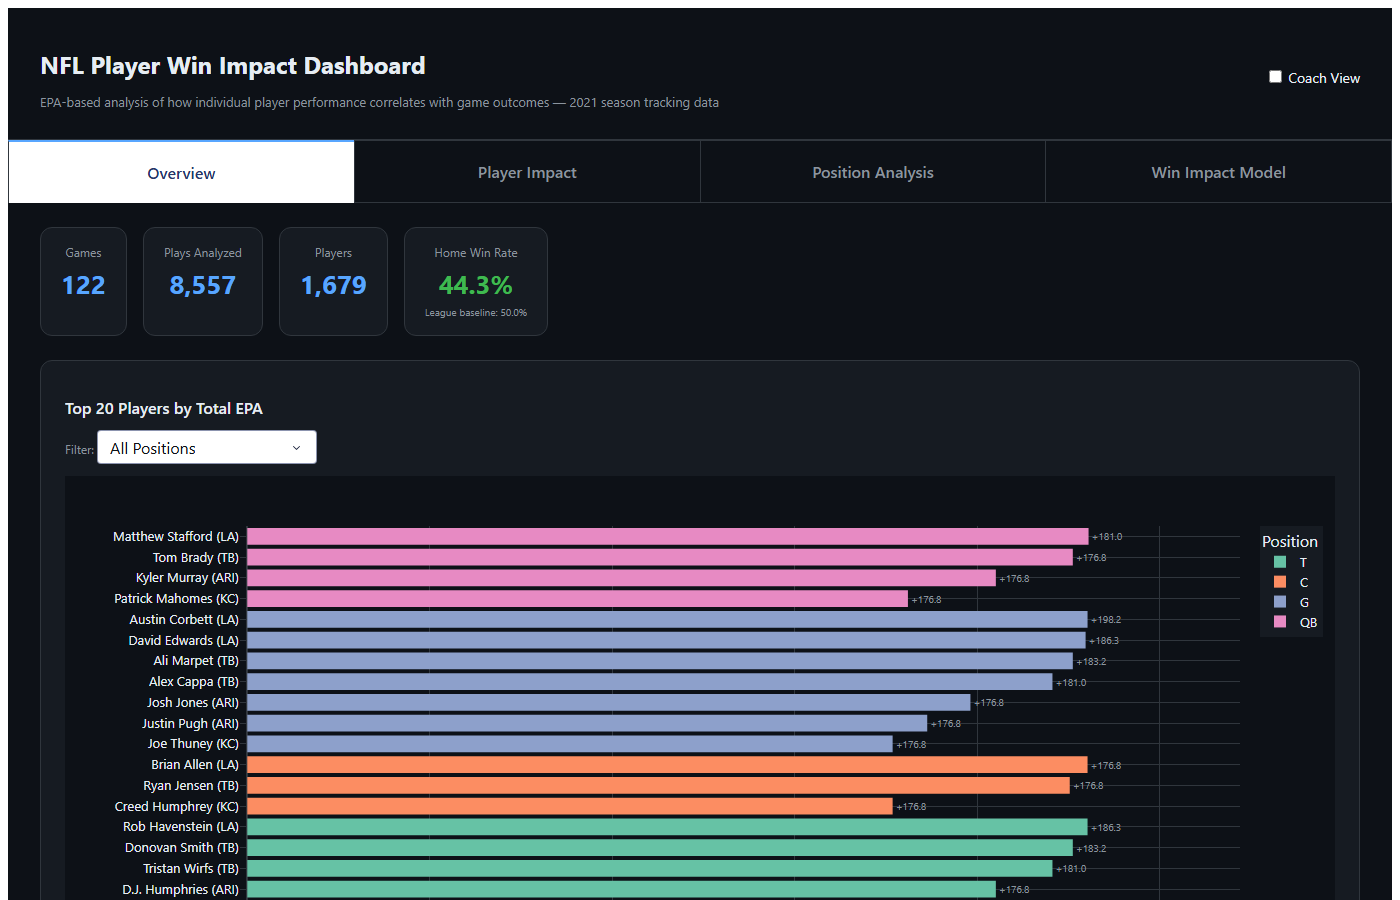
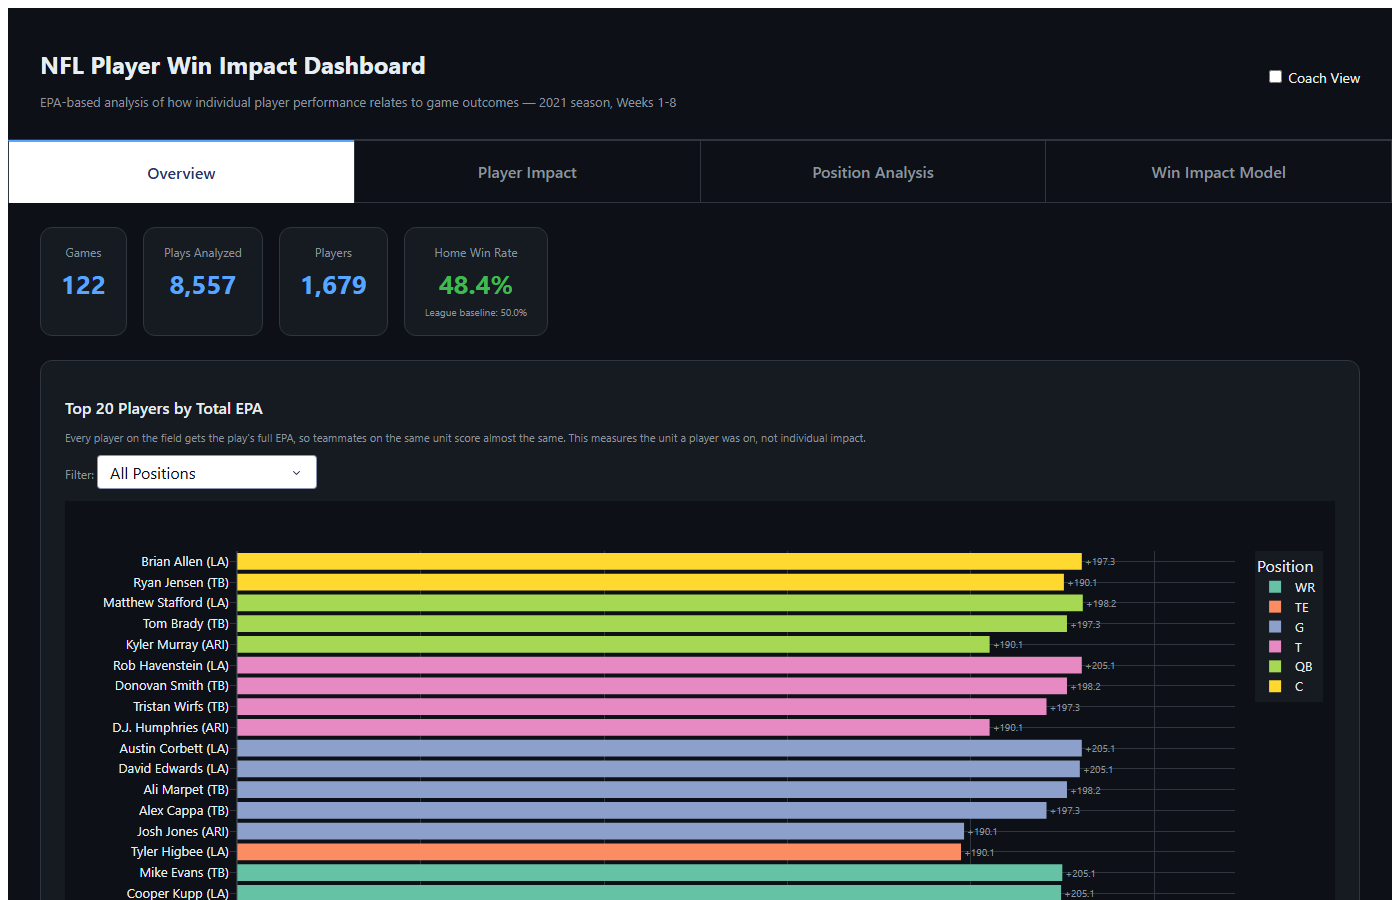
Fix receiver role bug, use real final scores, add held-out evaluation, correct README claims

Changed region(s): [[0.0307, 0.4667, 0.8907, 1.0], [0.8907, 0.5911, 0.9521, 0.7778], [0.2764, 0.0933, 0.5221, 0.1244]]

diff --git a/src/compute_epa.py b/src/compute_epa.py
@@ -24,6 +24,8 @@ import numpy as np
 import pandas as pd
 from sklearn.ensemble import GradientBoostingRegressor
 from sklearn.linear_model import LogisticRegression
+from sklearn.model_selection import GroupKFold
+from sklearn.pipeline import make_pipeline
 from sklearn.preprocessing import StandardScaler
 from sklearn.metrics import accuracy_score, roc_auc_score
 
@@ -120,32 +122,23 @@ def derive_final_scores(plays, games):
         plays.loc[idx, "homePts"] = hp
         plays.loc[idx, "visPts"] = vp
 
-    # Final score = last play's preSnapScore + points on last play
-    last_plays = plays[is_last].copy()
-    last_plays["finalHomeScore"] = last_plays["preSnapHomeScore"].fillna(0) + last_plays["homePts"]
-    last_plays["finalVisitorScore"] = last_plays["preSnapVisitorScore"].fillna(0) + last_plays["visPts"]
+    # Final scores and winners come from real results, NOT from plays.csv.
+    # plays.csv only holds pass plays (~70 per game), so runs, field goals and
+    # kneel-downs are missing and the score progression cannot be rebuilt.
+    # data/final_scores.csv holds the official 2021 regular-season scores
+    # (source: nflverse/nfldata games.csv, joined on week + home + away team).
+    real = pd.read_csv(os.path.join(DATA_DIR, "final_scores.csv"))
+    games = games.merge(real, on="gameId", how="left")
+    if games[["finalHomeScore", "finalVisitorScore"]].isna().any().any():
+        raise ValueError("final_scores.csv is missing scores for some games")
 
-    final_scores = last_plays[["gameId", "finalHomeScore", "finalVisitorScore"]].copy()
-
-    # Also use the max of (preSnapScore + lastPlayPts) and max preSnapScore as backup
-    max_scores = plays.groupby("gameId").agg(
-        maxHome=("preSnapHomeScore", "max"),
-        maxVis=("preSnapVisitorScore", "max"),
-    ).reset_index()
-    max_scores["maxHome"] = max_scores["maxHome"].fillna(0) + final_scores["finalHomeScore"].fillna(0).values * 0
-    # Use the higher of (last play score) and (max pre-snap score)
-    final_scores = final_scores.merge(max_scores, on="gameId", how="left")
-    final_scores["finalHomeScore"] = np.maximum(
-        final_scores["finalHomeScore"].fillna(0), final_scores["maxHome"].fillna(0))
-    final_scores["finalVisitorScore"] = np.maximum(
-        final_scores["finalVisitorScore"].fillna(0), final_scores["maxVis"].fillna(0))
-
-    # Merge back to games
-    games = games.merge(final_scores[["gameId", "finalHomeScore", "finalVisitorScore"]],
-                        on="gameId", how="left")
-    games["homeWin"] = (games["finalHomeScore"] > games["finalVisitorScore"]).astype(int)
     games["tie"] = (games["finalHomeScore"] == games["finalVisitorScore"]).astype(int)
-    games.loc[games["tie"] == 1, "homeWin"] = 0  # treat ties as non-wins for both
+    # homeWin: 1 = home won, 0 = visitor won, 0.5 = tie (counts as half a win for each team)
+    games["homeWin"] = np.select(
+        [games["finalHomeScore"] > games["finalVisitorScore"],
+         games["finalHomeScore"] < games["finalVisitorScore"]],
+        [1.0, 0.0], default=0.5,
+    )
 
     hw = (games["homeWin"] == 1).sum()
     aw = (games["homeWin"] == 0).sum()
@@ -303,8 +296,14 @@ def attribute_player_epa(plays, pff):
                 "playResult", "passResult", "down", "yardsToGo", "yardline"]
     player_plays = pff.merge(plays[epa_cols], on=["gameId", "playId"], how="left")
 
-    # Offensive roles get raw EPA; defensive roles get negated EPA
-    offensive_roles = {"Pass", "Run", "Pass Block", "Run Block"}
+    # Offensive roles get raw EPA; defensive roles (Pass Rush, Coverage) get
+    # negated EPA. Every play in plays.csv is a pass play, so the offensive
+    # roles are the passer, blockers and route runners.
+    offensive_roles = {"Pass", "Pass Block", "Pass Route"}
+    known_roles = offensive_roles | {"Pass Rush", "Coverage"}
+    unknown = set(player_plays["pff_role"].dropna().unique()) - known_roles
+    if unknown:
+        raise ValueError(f"Unmapped pff_role values: {unknown}")
     player_plays["isOffense"] = player_plays["pff_role"].isin(offensive_roles)
     player_plays["playerEpa"] = np.where(
         player_plays["isOffense"],
@@ -410,19 +409,28 @@ def win_impact_model(pg):
     df = pg.dropna(subset=features + ["teamWon"]).copy()
     df = df[df["snaps"] >= 10]
 
-    X = df[features].fillna(0)
-    y = df["teamWon"].astype(int)
+    X = df[features].fillna(0).to_numpy()
+    y = df["teamWon"].astype(int).to_numpy()
+    groups = df["gameId"].to_numpy()
 
+    # Held-out evaluation: 5-fold cross-validation grouped by game, so every
+    # player from a given game is either all in training or all in testing.
+    accs, aucs = [], []
+    for train_idx, test_idx in GroupKFold(n_splits=5).split(X, y, groups):
+        fold_model = make_pipeline(
+            StandardScaler(), LogisticRegression(max_iter=1000, random_state=42))
+        fold_model.fit(X[train_idx], y[train_idx])
+        fold_proba = fold_model.predict_proba(X[test_idx])[:, 1]
+        accs.append(accuracy_score(y[test_idx], fold_proba >= 0.5))
+        aucs.append(roc_auc_score(y[test_idx], fold_proba))
+    acc, auc = float(np.mean(accs)), float(np.mean(aucs))
+    baseline = float(max(y.mean(), 1 - y.mean()))
+
+    # Final model on all data, used only to read off the coefficients.
     scaler = StandardScaler()
     X_s = scaler.fit_transform(X)
-
     model = LogisticRegression(max_iter=1000, random_state=42)
     model.fit(X_s, y)
-
-    preds = model.predict(X_s)
-    proba = model.predict_proba(X_s)[:, 1]
-    acc = accuracy_score(y, preds)
-    auc = roc_auc_score(y, proba)
 
     importance = pd.DataFrame({
         "feature": features,
@@ -430,17 +438,26 @@ def win_impact_model(pg):
         "abs_coef": np.abs(model.coef_[0]),
     }).sort_values("abs_coef", ascending=False)
 
-    print(f"  Win model accuracy: {acc:.4f}  AUC: {auc:.4f}")
+    metrics = pd.DataFrame([{
+        "heldOutAccuracy": acc, "heldOutAccuracyStd": float(np.std(accs)),
+        "heldOutAuc": auc, "heldOutAucStd": float(np.std(aucs)),
+        "baselineAccuracy": baseline,
+        "rows": len(df), "games": int(df["gameId"].nunique()), "folds": 5,
+    }])
+
+    print(f"  Held-out (5-fold, grouped by game): accuracy {acc:.4f} "
+          f"(+/-{np.std(accs):.4f})  AUC {auc:.4f} (+/-{np.std(aucs):.4f})")
+    print(f"  Baseline (always guess the majority outcome): {baseline:.4f}")
     for _, row in importance.head(5).iterrows():
         print(f"    {row['feature']:>20s}  coef={row['coefficient']:+.4f}")
 
-    return importance, acc, auc
+    return importance, metrics
 
 
 # --------------------------------------------------------------------------- #
 # 9.  Save outputs
 # --------------------------------------------------------------------------- #
-def save_outputs(games, plays, pg, ps, importance):
+def save_outputs(games, plays, pg, ps, importance, metrics):
     print("Saving derived CSVs ...")
     games[["gameId", "season", "week", "gameDate", "homeTeamAbbr", "visitorTeamAbbr",
            "finalHomeScore", "finalVisitorScore", "homeWin", "tie"]].to_csv(
@@ -454,7 +471,8 @@ def save_outputs(games, plays, pg, ps, importance):
     pg.to_csv(os.path.join(OUT_DIR, "player_game_stats.csv"), index=False)
     ps.to_csv(os.path.join(OUT_DIR, "player_season_stats.csv"), index=False)
     importance.to_csv(os.path.join(OUT_DIR, "win_impact_features.csv"), index=False)
-    print(f"  Saved 5 CSVs to {OUT_DIR}")
+    metrics.to_csv(os.path.join(OUT_DIR, "model_metrics.csv"), index=False)
+    print(f"  Saved 6 CSVs to {OUT_DIR}")
 
 
 # --------------------------------------------------------------------------- #
@@ -468,8 +486,8 @@ def main():
     plays = compute_epa(plays, ep_model)
     player_plays = attribute_player_epa(plays, pff)
     pg, ps = aggregate_player_stats(player_plays, games, players)
-    importance, acc, auc = win_impact_model(pg)
-    save_outputs(games, plays, pg, ps, importance)
+    importance, metrics = win_impact_model(pg)
+    save_outputs(games, plays, pg, ps, importance, metrics)
     print("\nPipeline complete.  Derived data saved to data/derived/")
 
 

diff --git a/src/dashboard.py b/src/dashboard.py
@@ -120,8 +120,13 @@ _win_scaler = StandardScaler()
 _win_X_s = _win_scaler.fit_transform(_win_X)
 _win_model = LogisticRegression(max_iter=1000, random_state=42)
 _win_model.fit(_win_X_s, _win_y)
-_win_acc = _win_model.score(_win_X_s, _win_y)
-_win_auc = roc_auc_score(_win_y, _win_model.predict_proba(_win_X_s)[:, 1])
+# Reported accuracy/AUC are HELD-OUT numbers (5-fold CV grouped by game),
+# computed by src/compute_epa.py. The model above is only used by the
+# interactive calculator, so its in-sample score is never shown.
+_metrics = pd.read_csv(os.path.join(DERIVED, "model_metrics.csv")).iloc[0]
+_win_acc = float(_metrics["heldOutAccuracy"])
+_win_auc = float(_metrics["heldOutAuc"])
+_win_baseline = float(_metrics["baselineAccuracy"])
 
 # Baseline win probability (at league-median values) for delta display
 _baseline_row = pd.DataFrame(
@@ -283,7 +288,7 @@ app.layout = html.Div(
                     html.H1("NFL Player Win Impact Dashboard",
                             style=dict(fontSize=24, fontWeight=700, marginBottom=4)),
                     html.P("EPA-based analysis of how individual player performance "
-                           "correlates with game outcomes — 2021 season tracking data",
+                           "relates to game outcomes — 2021 season, Weeks 1-8",
                            style=dict(color="#8b949e", fontSize=13)),
                 ]),
                 dcc.Checklist(
@@ -400,6 +405,10 @@ def overview_tab(coach_view):
                       color=ACCENT2),
         ]),
         card(title_top, [
+            html.P("Every player on the field gets the play's full EPA, so "
+                   "teammates on the same unit score almost the same. This "
+                   "measures the unit a player was on, not individual impact.",
+                   style=dict(color="#8b949e", fontSize=11, marginBottom=10)),
             html.Div([
                 html.Span("Filter: ", style=dict(color="#8b949e", fontSize=12)),
                 dcc.Dropdown(
@@ -1073,9 +1082,9 @@ def winmodel_tab(coach_view):
     colors = [ACCENT2 if c > 0 else ACCENT3 for c in wf["coefficient"]]
 
     x_label = "Win Impact Score" if coach_view else "Impact on Winning"
-    takeaway = ("Average impact per play is the single strongest predictor of winning."
+    takeaway = ("Average impact per play is the stat most closely tied to winning."
                 if coach_view else
-                "Avg EPA per play is the single strongest predictor of winning.")
+                "Avg EPA per play is the stat most closely tied to winning.")
 
     fig_imp = go.Figure(go.Bar(
         x=wf["coefficient"], y=wf["label"],
@@ -1151,9 +1160,10 @@ def winmodel_tab(coach_view):
     return [
         html.Div(style=dict(display="flex", gap=16, marginBottom=16), children=[
             stat_card("Model Accuracy", f"{_win_acc:.1%}",
-                      subtitle="vs 50% baseline", color=ACCENT2),
+                      subtitle=f"on held-out games · baseline {_win_baseline:.0%}",
+                      color=ACCENT2),
             stat_card("Model AUC", f"{_win_auc:.2f}",
-                      subtitle="0.5=random, 1.0=perfect", color=ACCENT),
+                      subtitle="held-out · 0.5=random, 1.0=perfect", color=ACCENT),
             stat_card("Player-Games", f"{n_pg:,}"),
             stat_card("Games", f"{n_games}"),
         ]),

diff --git a/src/build_final_scores.py b/src/build_final_scores.py
@@ -1,0 +1,43 @@
+"""
+Build data/final_scores.csv: official final scores for the 122 games in games.csv.
+
+Why this exists: games.csv has no scores, and plays.csv contains only pass
+plays (~70 per game), so final scores cannot be rebuilt from play data.
+Scores come from the public nflverse schedule dataset, joined to our games on
+week + home team + away team.
+
+Run once (needs internet):  python src/build_final_scores.py
+"""
+
+import os
+import pandas as pd
+
+SOURCE = "https://raw.githubusercontent.com/nflverse/nfldata/master/data/games.csv"
+DATA_DIR = os.path.join(os.path.dirname(__file__), "..", "data")
+
+
+def main():
+    games = pd.read_csv(os.path.join(DATA_DIR, "games.csv"))
+    nv = pd.read_csv(SOURCE)
+    nv = nv[(nv["season"] == 2021) & (nv["game_type"] == "REG")]
+    nv = nv[["week", "home_team", "away_team", "home_score", "away_score"]]
+
+    merged = games.merge(
+        nv,
+        left_on=["week", "homeTeamAbbr", "visitorTeamAbbr"],
+        right_on=["week", "home_team", "away_team"],
+        how="left",
+    )
+    missing = int(merged["home_score"].isna().sum())
+    if missing or merged["gameId"].duplicated().any():
+        raise ValueError(f"Could not match every game: {missing} missing")
+
+    out = merged[["gameId", "home_score", "away_score"]].rename(
+        columns={"home_score": "finalHomeScore", "away_score": "finalVisitorScore"})
+    out = out.astype({"finalHomeScore": int, "finalVisitorScore": int})
+    out.to_csv(os.path.join(DATA_DIR, "final_scores.csv"), index=False)
+    print(f"Wrote {len(out)} games to data/final_scores.csv")
+
+
+if __name__ == "__main__":
+    main()

diff --git a/README.md b/README.md
@@ -1,69 +1,43 @@
 # NFL Player Win Impact Dashboard
 
-An EPA-based analytics tool built on the 2021 NFL Big Data Bowl tracking dataset that quantifies how individual player performance drives game outcomes across all 1,679 players and 8,557 plays from the first 8 weeks of the 2021 season. The dashboard runs a gradient-boosting Expected Points model and logistic regression to surface which stats — pressures generated, EPA per play, times beaten — most predict winning, then presents the findings in four interactive tabs designed for both analysts and coaching staff.
-
----
+An EPA-based analytics tool built on the 2021 NFL Big Data Bowl dataset (Next Gen Stats with PFF scouting data) that relates individual player performance to game outcomes across 1,679 players, 8,557 pass plays and 122 games from Weeks 1-8 of the 2021 season. A gradient-boosting Expected Points model estimates EPA for every play, and a logistic regression finds which player stats are most tied to winning. On games held out of training, the win model reaches 65.9% accuracy (AUC 0.74) against a 50% baseline. Results are presented in four interactive tabs for analysts and coaching staff, with a Coach View toggle that swaps statistical terms for plain English.
 
 ![NFL Player Win Impact Dashboard](assets/dashboard_screenshot.png)
 
----
-
-## the live url
-
-link: https://nfl-player-win-impact.onrender.com
-
 ## Live Demo
 
-> **To run a public live demo**, start the dashboard locally then expose it with [ngrok](https://ngrok.com/download):
->
-> ```bash
-> # Terminal 1 — start the dashboard
-> python src/dashboard.py
->
-> # Terminal 2 — create a public URL (requires free ngrok account)
-> ngrok http 8050
-> ```
->
-> ngrok will print a public HTTPS URL (e.g. `https://xxxx.ngrok-free.app`) that anyone can open in a browser for the duration of your session.
+**https://nfl-player-win-impact.onrender.com**
 
-**Local URL:** `http://127.0.0.1:8050`
+The demo runs on a free host that sleeps when idle, so the first load can take up to a minute.
 
----
+## Run it locally
 
-## Setup
-
-**Requirements:** Python 3.9+
+Requires Python 3.9+.
 
 ```bash
-pip install pandas numpy scikit-learn plotly dash
+pip install -r requirements.txt
+python src/compute_epa.py     # builds data/derived/ (about 2 minutes)
+python src/dashboard.py       # opens at http://127.0.0.1:8050
 ```
 
-```bash
-# Step 1 — build the EPA pipeline (runs once, ~2 min)
-python src/compute_epa.py
-
-# Step 2 — launch the dashboard
-python src/dashboard.py
-```
-
----
-
-## What's Inside
+## What's inside
 
 | Tab | Purpose |
 |---|---|
-| **Overview** | Top 20 players by EPA, all-32-team win rates, play impact distribution |
-| **Player Impact** | Per-player stat cards with percentile rank, game-by-game EPA chart, scouting radar vs position average. Compare any two players side by side. |
-| **Position Analysis** | EPA vs Win Rate bubble chart with quadrant labels, position filter, player search with zoom, top 5 per position |
-| **Win Impact Model** | Feature importance, win rate by stat level, interactive win probability calculator |
+| **Overview** | Top 20 players by EPA, win rate for all 32 teams, play impact distribution |
+| **Player Impact** | Stat cards with position rank, game-by-game EPA, scouting radar vs position average, side-by-side player comparison |
+| **Position Analysis** | EPA vs win rate chart with quadrant labels, position filter, player search, top 5 per position |
+| **Win Impact Model** | Which stats are most tied to winning, win rate by stat level, interactive win probability calculator |
 
-Toggle **Coach View** in the top-right corner to switch all labels from statistical terminology to plain English.
+## Method and limitations
 
----
+- **Held-out evaluation:** accuracy and AUC come from 5-fold cross-validation grouped by game (65.9% ± 3.1%, AUC 0.74 ± 0.03), so no game appears in both training and testing. The code is in `src/compute_epa.py`.
+- **Final scores:** `data/games.csv` has no scores, and `plays.csv` holds only pass plays, so official scores come from the public [nflverse schedule data](https://github.com/nflverse/nfldata) (`src/build_final_scores.py`).
+- **Shared credit:** every player on the field receives the play's full EPA. Teammates on the same unit score almost the same, so player numbers reflect the unit, not individual impact.
+- **Association, not prediction:** EPA and the game result come from the same game, so the model shows which stats go with winning, not which ones forecast it.
+- **Simple EP model:** expected points use only down, distance and field position, and the data contains only pass plays, so EPA is approximate.
+- **Tracking files unused:** the 122 per-game tracking files are in the repo but this analysis does not use them yet.
 
 ## Data
 
-Source: [NFL Big Data Bowl Regional Event Data](https://github.com/ThompsonJamesBliss/nfl-big-data-bowl-regional-event-data) — `games.csv`, `players.csv`, `plays.csv`, `pffScoutingData.csv`, and 122 per-game tracking files (~833 MB total).
-
-
-
+Source: [NFL Big Data Bowl regional event data](https://github.com/ThompsonJamesBliss/nfl-big-data-bowl-regional-event-data): `games.csv`, `players.csv`, `plays.csv`, `pffScoutingData.csv` and 122 per-game tracking files (about 833 MB total). Final scores: nflverse.
